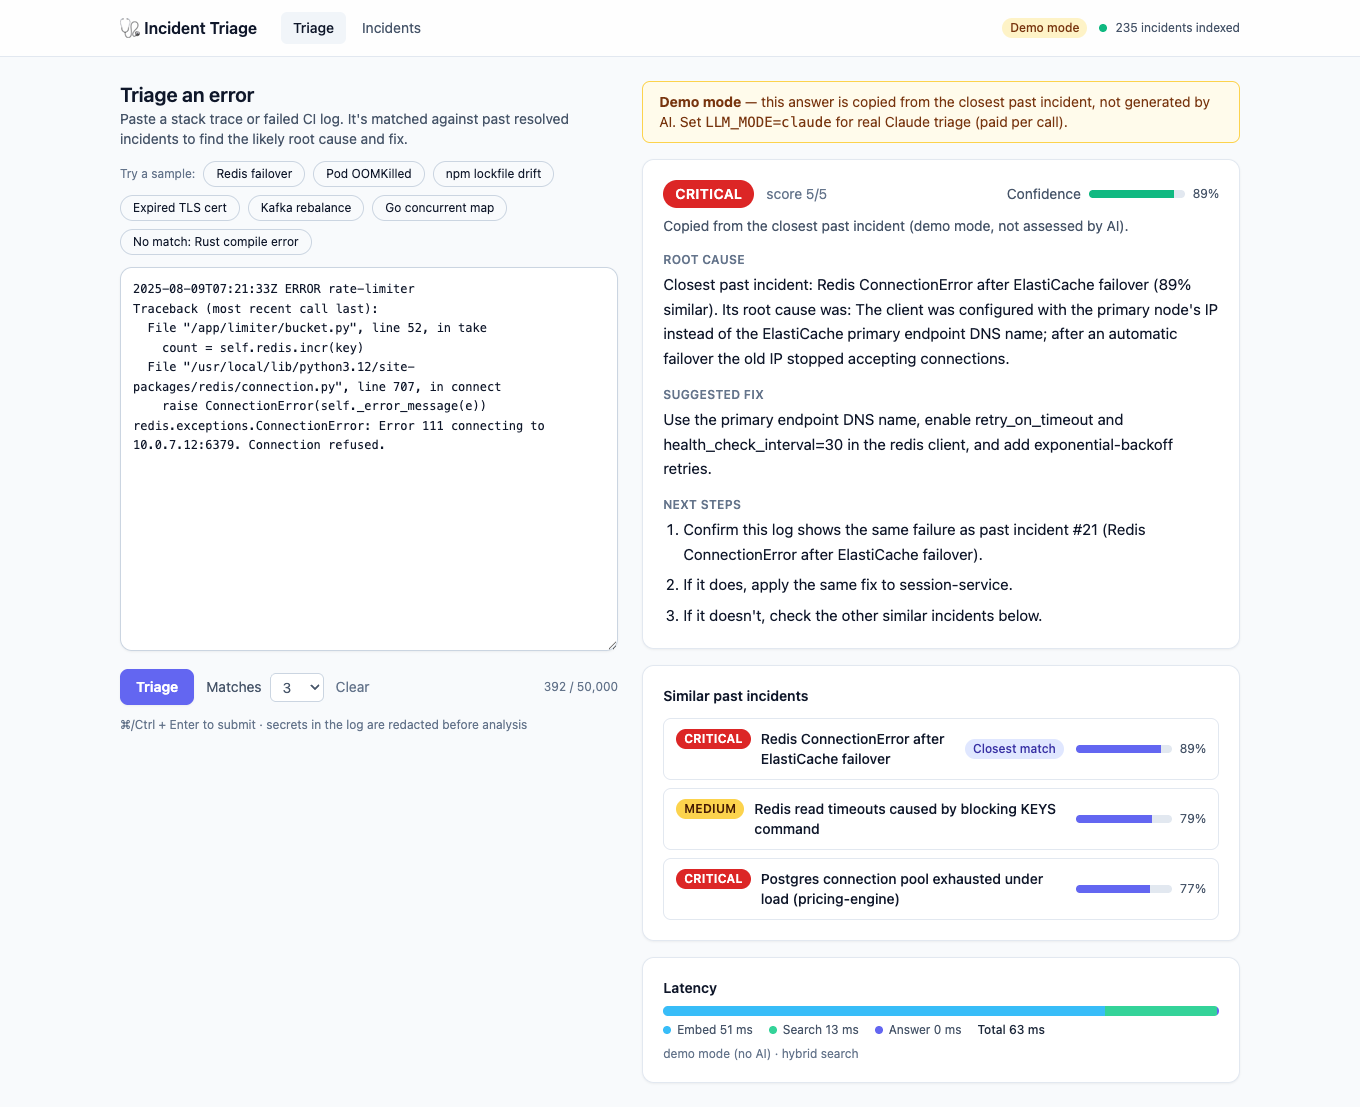
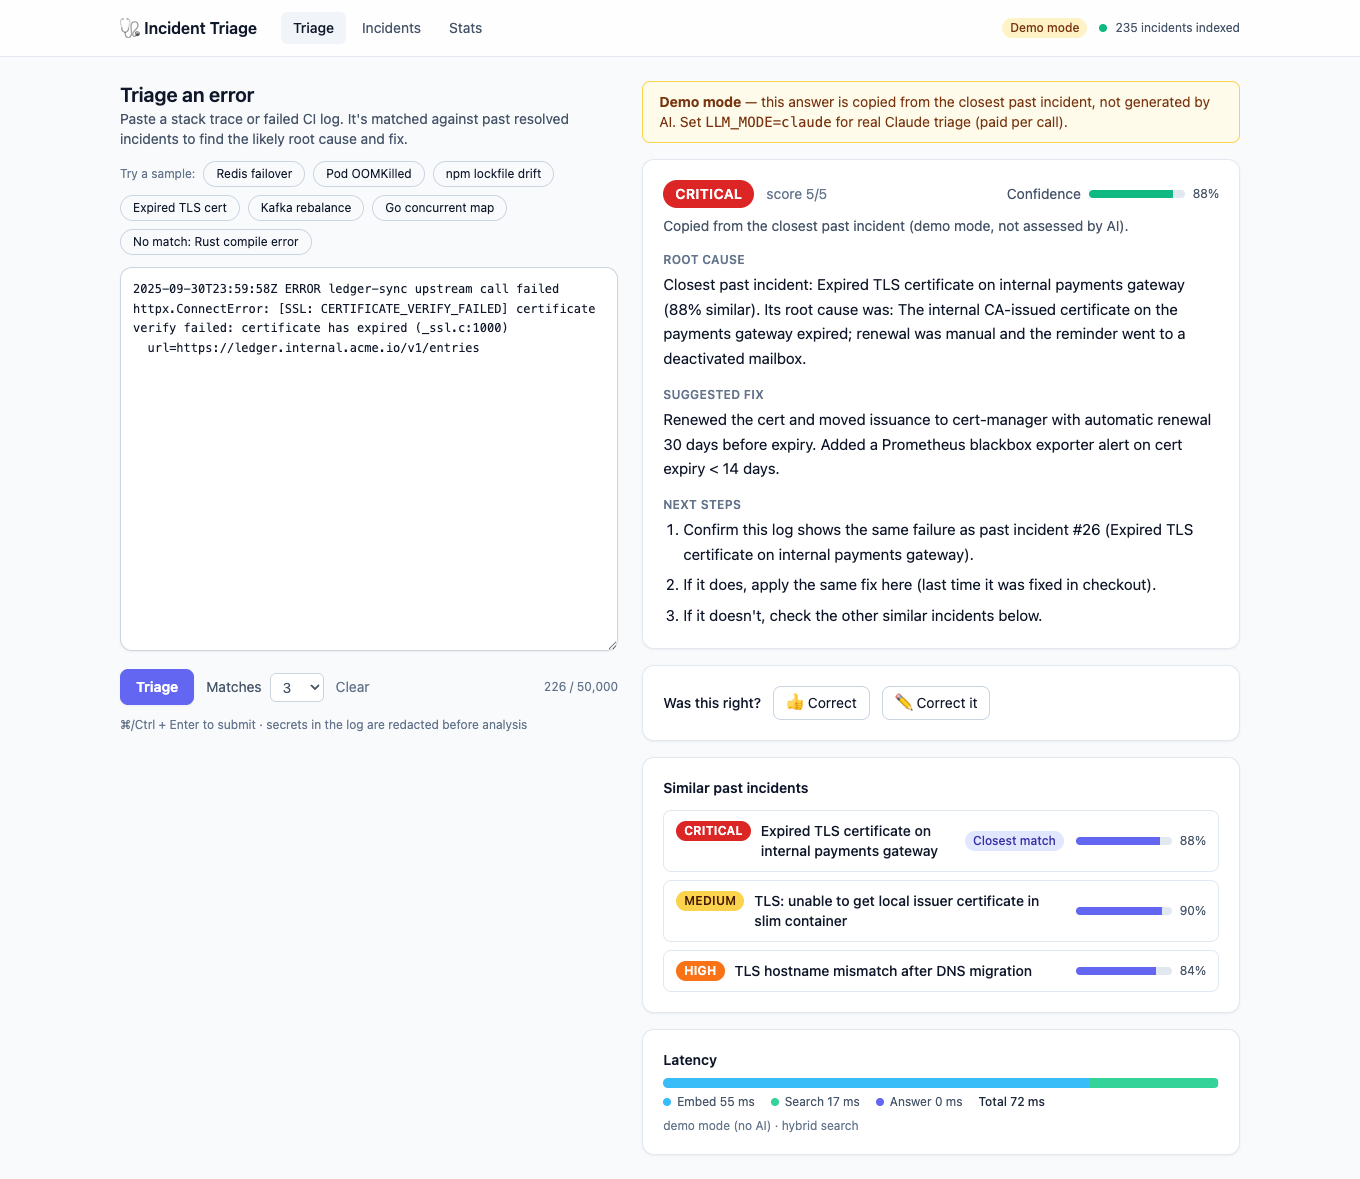
README: screenshot gallery, feedback form, cloud-flow output
- Screenshots section: all 9 existing images plus a new feedback-form
  capture; triage-demo.png recaptured with the current UI
- Claude screenshots labelled as Phase 4 UI; demo ones as not AI-generated
- Exact simulate_s3_ingest output as a text block

diff --git a/scripts/screenshots.py b/scripts/screenshots.py
@@ -6,8 +6,8 @@
 Captures triage, triage-no-match, incidents, incident-detail, triage-dark, triage-mobile.
 Costs nothing in demo mode (the default). With LLM_MODE=claude each triage is a paid call
 (~2-4 cents). Note: it overwrites triage.png, which the README labels as real Claude output,
-so re-run it in demo mode only if you also update that caption. duplicate.png, stats.png and
-triage-demo.png were captured by hand.
+so re-run it in demo mode only if you also update that caption. duplicate.png, stats.png,
+triage-demo.png and feedback-form.png were captured by hand.
 """
 
 from pathlib import Path

diff --git a/README.md b/README.md
@@ -19,10 +19,47 @@ Postgres + pgvector, answered by Claude, with a React UI and an S3 → Lambda in
 - **Ingests from CI:** upload a log to S3 `incoming/` → Lambda → `/triage` → `triaged/<job>.json`, with CloudWatch metrics and a critical-severity alarm.
 - **Free by default:** demo mode makes no Claude calls, embeddings run locally, AWS is emulated by Moto. Nothing in tests or CI spends money.
 
+## Screenshots
+
+**Real Claude answers** (Opus 5.5, captured in Phase 4, before the feedback buttons and Stats page were added):
+
 | | |
 |---|---|
-| ![Repeated log](docs/screenshots/duplicate.png) | ![Stats](docs/screenshots/stats.png) |
-| Repeated log answered from history, feedback buttons | Stats page |
+| ![No close match](docs/screenshots/triage-no-match.png) | ![Dark mode](docs/screenshots/triage-dark.png) |
+| A Rust compile error with no similar past incident: Claude reasons from the log alone and says so | Dark mode (follows the OS setting) |
+
+**Current app in free demo mode** (answers copied from the closest past incident, labelled as not AI-generated):
+
+| | |
+|---|---|
+| ![Demo mode](docs/screenshots/triage-demo.png) | ![Repeated log](docs/screenshots/duplicate.png) |
+| Triage in demo mode: severity, root cause, fix, next steps, feedback, the 3 closest past incidents, latency | The same failure again: answered from history in a few ms, no search or model call |
+| ![Correct it](docs/screenshots/feedback-form.png) | ![Stats](docs/screenshots/stats.png) |
+| ✏ Correct it: the real root cause and fix, optionally added to the incident library | Stats: requests, answered from history, feedback accuracy, recent triages |
+| ![Incidents](docs/screenshots/incidents.png) | ![Incident detail](docs/screenshots/incident-detail.png) |
+| Past-incident library: search, severity filter, hide synthetic copies | Incident detail: log, root cause, fix |
+
+<p align="center"><img src="docs/screenshots/triage-mobile.png" alt="Mobile" width="300"><br><sub>Phone width (390 px), real Claude answer</sub></p>
+
+**Cloud workflow** (`python -m scripts.simulate_s3_ingest --count 3 --repeat-first`, on the local AWS emulator):
+
+```text
+bucket s3://incident-triage-logs  api http://127.0.0.1:8030  emulator http://127.0.0.1:4567
+
+  Redis failover                     triaged  s3://incident-triage-logs/triaged/ci/20261119-132924/job-1.json  severity=critical  reused from run #27
+  Pod OOMKilled                      triaged  s3://incident-triage-logs/triaged/ci/20261119-132924/job-2.json  severity=high  reused from run #28
+  npm lockfile drift                 triaged  s3://incident-triage-logs/triaged/ci/20261119-132924/job-3.json  severity=low  reused from run #30
+  Redis failover (repeat)            triaged  s3://incident-triage-logs/triaged/ci/20261119-132924/job-4.json  severity=critical  reused from run #27
+
+triaged/  4 object(s) from this run
+
+failed/   0 object(s) from this run
+
+CloudWatch metrics in IncidentTriage: DuplicateSuppressed, IngestDuplicate, IngestSucceeded, LLMLatencyMs, MatchedIncidents, SeverityScore, TriageLatencyMs
+alarm critical-severity-triage: SeverityScore >= 5, state OK (Moto stores alarms but doesn't evaluate them)
+```
+
+All four were answered from history because the same samples had been triaged earlier in the session ("reused from run #…").
 
 ## Architecture
 
